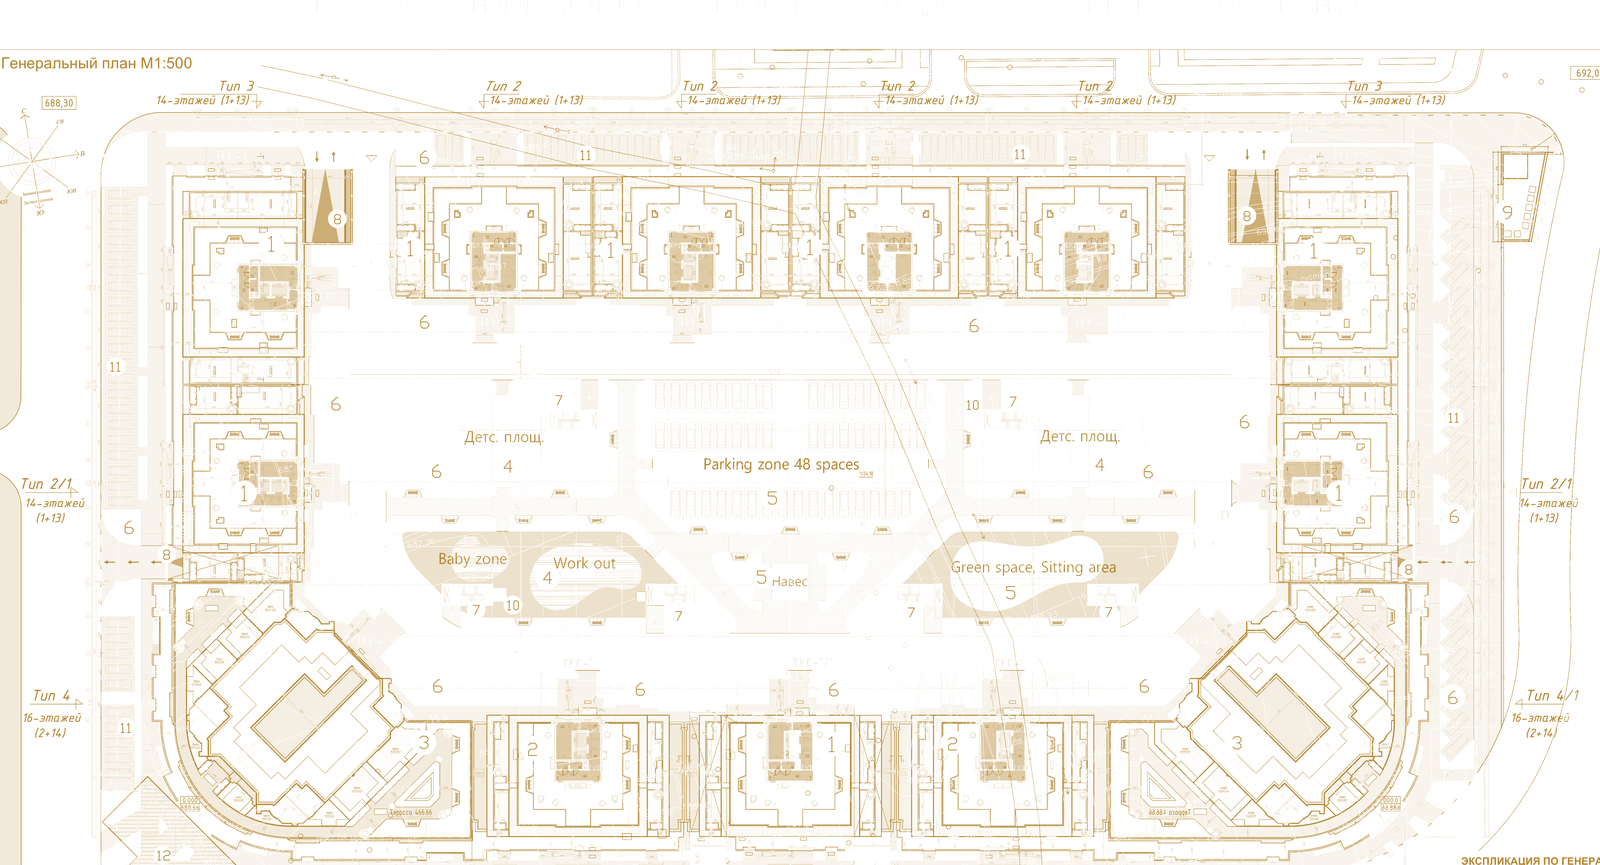
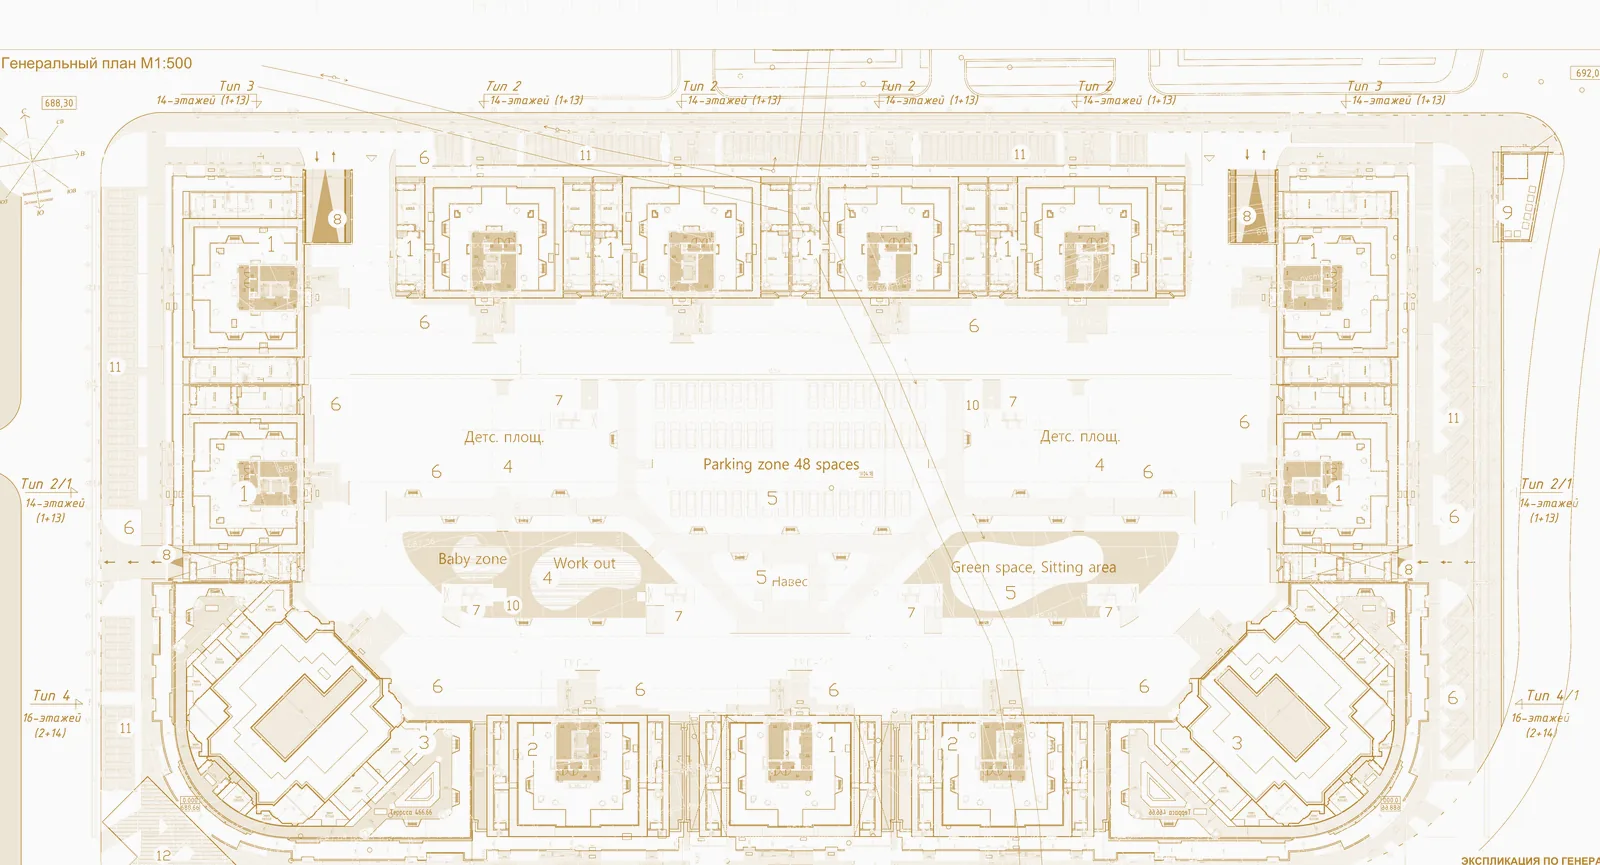
Lighten the general plan and clear out images nothing uses
The general plan drawing carried the same needless alpha channel as the
opening one: 817KB became 254KB by compositing it onto the paper colour it
already sits on.

Deleted 3.1MB of assets no page references — the aerial render's unused
sizes, film-strip frames left over from an earlier cut of the section, a
relief and a mobile poster nothing points at any more. Verified against the
built HTML, CSS and scripts before removing, and the link check still passes.

diff --git a/tools/make-genplan-line.py b/tools/make-genplan-line.py
@@ -24,6 +24,7 @@ OUT = os.path.join(os.path.dirname(os.path.dirname(os.path.abspath(__file__))), 
 CROP = (0.038, 0.085, 0.915, 0.755)
 
 GOLD = (179, 131, 43)          # 3.1 — фирменное золото
+PAPER = (250, 250, 250)        # 3.1 — светлый фон страницы
 INK_MAX = 190                  # светлее этого считаем фоном
 INK_MIN = 55                   # темнее этого — линия в полную силу
 SAT_MAX = 70                   # цветные заливки газонов и проездов отбрасываем:
@@ -49,13 +50,15 @@ def main():
     sat = im.convert('HSV').getchannel('S')
     alpha = ImageChops.multiply(alpha, sat.point(lambda v: 255 if v < SAT_MAX else 0))
 
+    # Без альфы: чертёж всё равно лежит на сплошном светлом фоне, а
+    # полупрозрачные линии раздували файл впятеро.
     for w in (1600, 2400):
         h = round(alpha.height * w / alpha.width)
         a = alpha.resize((w, h), Image.LANCZOS)
-        out = Image.new('RGBA', (w, h), GOLD + (0,))
-        out.putalpha(a)
+        out = Image.new('RGB', (w, h), PAPER)
+        out.paste(Image.new('RGB', (w, h), GOLD), (0, 0), a)
         name = 'genplan-line-%d.webp' % w
-        out.save(os.path.join(OUT, name), 'WEBP', quality=88, method=6)
+        out.save(os.path.join(OUT, name), 'WEBP', quality=82, method=6)
         print('  %s  %dx%d  %d КБ' % (name, w, h, os.path.getsize(os.path.join(OUT, name)) / 1024))
 
 
